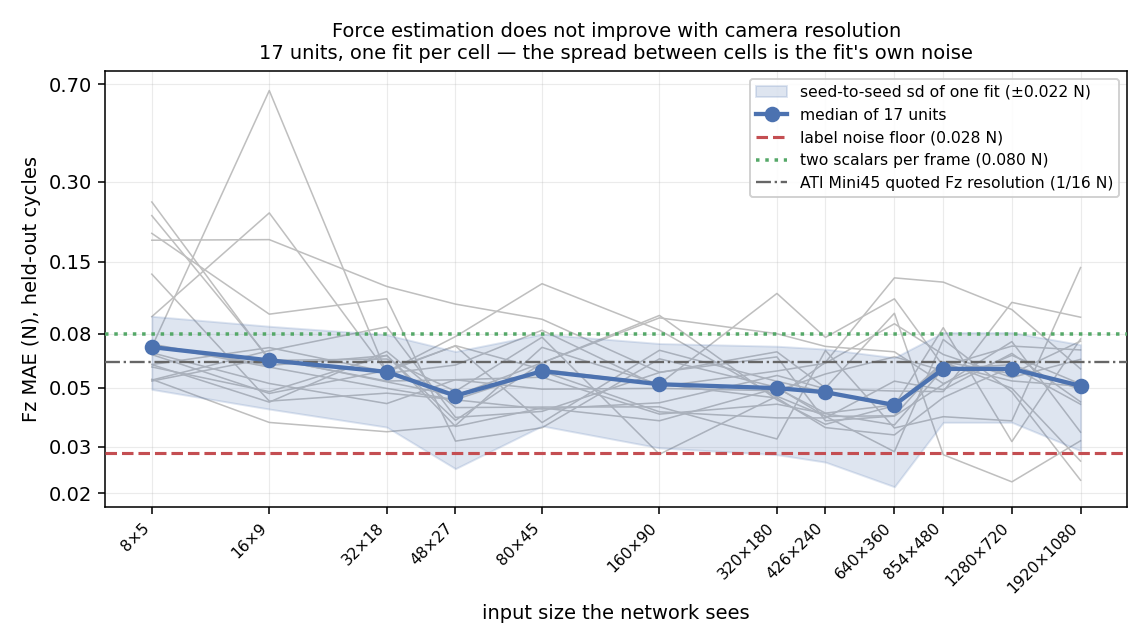
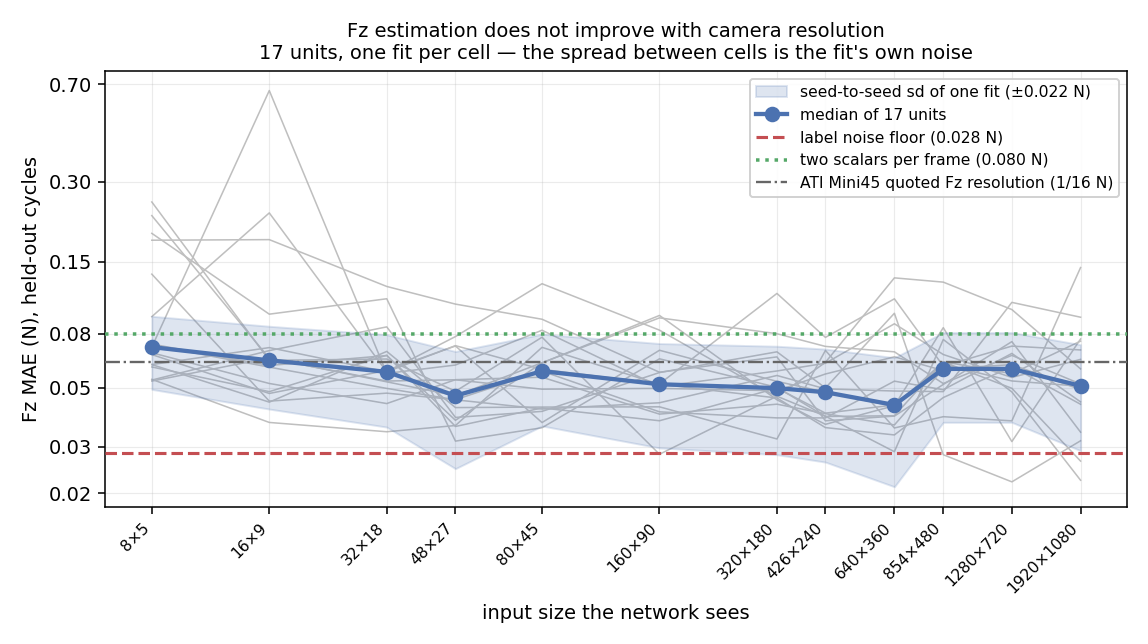
force estimation: shear does show a resolution effect, and it peaks in the middle
Plotting the lateral channel the same way changes the conclusion. Fz was flat
because its noise swamped everything; shear is not.

The shear median traces a U -- 0.038 N at 8x5 down to 0.027 N at 160x90 and
back to 0.038 N at 1920x1080. The seed study says this is real: shear's
seed-to-seed sd is 0.0058 N against Fz's 0.0219 N (its F/T label is three times
quieter), so the size term works out to 0.0142 N, 2.5x the seed noise and 46 %
of the median error, where for Fz it was 0.007 N and 13 %.

The two ends fail for different reasons. Shear shows up as an ASYMMETRY in the
imprint, and an imprint a few pixels across has no asymmetry left -- which is
why Fz still reaches R2 0.94 at 8x5 and shear does not. At the top end the
input grows while the training set stays at 933 frames and the batch shrinks to
4, and 1920x1080 has the widest seed spread of any size.

This also lines up with the operator's own MobileNetV2 0.35x study (9DTact, ten
resolutions, object-wise split), whose R2 peaks at 224x224 / 320x180 and falls
by 1920x1080. Different model, different data, same optimum band of 50k-100k
pixels -- which is the strongest support the result has.

Consequences written through: shear is not label-limited (0.027 N against a
0.009 N floor, where Fz sits at 1.8x its floor), the network beats the scalar
baseline by 2.6x on shear against 1.55x on Fz, and the practical floor for the
whole method is 160x90 rather than the 80x45 shape asks for.

Changed region(s): [[0.2744, 0.0311, 0.7927, 0.0621]]

diff --git a/scripts/make_force_figures.py b/scripts/make_force_figures.py
@@ -24,12 +24,15 @@ HARDS = ["soft", "medium", "hard"]
 THICK = [1, 2, 3]
 
 
-def label_noise():
+def label_noise(axis="fz"):
     """MAE a perfect model would still show, from the F/T reading's own scatter.
 
     Second differences, which cancel the ramp's linear part; var = 6 sigma^2.
     A first difference would be dominated by the real force change between
     frames (0.048 N median) and overstate the noise by a factor of five.
+
+    `axis` is "fz" for the normal force or "lat" for the shear magnitude
+    hypot(Fx, Fy), which is the quantity `lat_mae` scores.
     """
     out = {}
     for d in sorted((DATA / "20260907_passB_ball8").iterdir()):
@@ -37,23 +40,27 @@ def label_noise():
         if not p.exists():
             continue
         s = pd.read_csv(p)
-        fz = np.abs(s.Fz_s_corr.fillna(s.Fz_s).values)
+        if axis == "fz":
+            v = np.abs(s.Fz_s_corr.fillna(s.Fz_s).values)
+        else:
+            v = np.hypot(s.Fx_s_corr.fillna(s.Fx_s).values,
+                         s.Fy_s_corr.fillna(s.Fy_s).values)
         seg = s.segment.values
         k = (seg[2:] == seg[:-2]) & (seg[1:-1] == seg[:-2])
-        d2 = (fz[2:] - 2 * fz[1:-1] + fz[:-2])[k]
+        d2 = (v[2:] - 2 * v[1:-1] + v[:-2])[k]
         out[d.name.replace("9DTact_", "")] = 0.798 * np.median(np.abs(d2)) / 0.6745 / np.sqrt(6)
     return out
 
 
-def fig_resolution(f, seed, floor, scalar):
+def fig_resolution(f, seed, floor, scalar, col="fz_mae", name="Fz", out="force_vs_resolution.png"):
     fig, ax = plt.subplots(figsize=(8.2, 4.6))
     w = sorted(f.width_px.unique())
     for s, g in f.groupby("sensor"):
         g = g.sort_values("width_px")
-        ax.plot(g.width_px, g.fz_mae, color="0.75", lw=0.8, zorder=1)
-    med = f.groupby("width_px").fz_mae.median().reindex(w)
+        ax.plot(g.width_px, g[col], color="0.75", lw=0.8, zorder=1)
+    med = f.groupby("width_px")[col].median().reindex(w)
     # the seed band: what one fit scatters by with everything else held fixed
-    sd = seed.groupby(["sensor", "width_px"]).fz_mae.std(ddof=1).median()
+    sd = seed.groupby(["sensor", "width_px"])[col].std(ddof=1).median()
     ax.fill_between(w, med - sd, med + sd, color="#4c72b0", alpha=.18, zorder=2,
                     label=f"seed-to-seed sd of one fit (±{sd:.3f} N)")
     ax.plot(w, med, "o-", color="#4c72b0", lw=2.2, ms=7, zorder=4,
@@ -63,7 +70,8 @@ def fig_resolution(f, seed, floor, scalar):
     ax.axhline(scalar, color="#55a868", ls=":", lw=1.8, zorder=3,
                label=f"two scalars per frame ({scalar:.3f} N)")
     ax.axhline(1 / 16, color="0.4", ls="-.", lw=1.2, zorder=3,
-               label="ATI Mini45 quoted Fz resolution (1/16 N)")
+               label=f"ATI Mini45 quoted {'Fz' if name == 'Fz' else 'Fxy'} resolution "
+                     f"({'1/16' if name == 'Fz' else '1/32'} N)")
     ax.set_xscale("log")
     ax.set_yscale("log")
     ax.set_xticks(w)
@@ -73,19 +81,19 @@ def fig_resolution(f, seed, floor, scalar):
     ax.set_yticklabels(["0.02", "0.03", "0.05", "0.08", "0.15", "0.30", "0.70"])
     ax.minorticks_off()
     ax.set_xlabel("input size the network sees")
-    ax.set_ylabel("Fz MAE (N), held-out cycles")
-    ax.set_title("Force estimation does not improve with camera resolution\n"
+    ax.set_ylabel(f"{name} MAE (N), held-out cycles")
+    ax.set_title(f"{name} estimation does not improve with camera resolution\n"
                  "17 units, one fit per cell — the spread between cells is the fit's own noise",
                  fontsize=10)
     ax.grid(alpha=.25, lw=.6)
     ax.legend(fontsize=8, framealpha=.9)
     fig.tight_layout()
-    fig.savefig(FIGS / "force_vs_resolution.png", dpi=140)
+    fig.savefig(FIGS / out, dpi=140)
     plt.close(fig)
-    print(f"  -> {(FIGS/'force_vs_resolution.png').relative_to(ROOT)}")
+    print(f"  -> {(FIGS/out).relative_to(ROOT)}")
 
 
-def fig_per_unit(f, seed, floor, scalar):
+def fig_per_unit(f, seed, floor, scalar, col="fz_mae", name="Fz", out="force_vs_resolution_units.png"):
     """One panel per unit, laid out as the 3x3 design plus replicate.
 
     The point of the small multiples is not to find each unit's best size --
@@ -93,7 +101,7 @@ def fig_per_unit(f, seed, floor, scalar):
     that every unit's curve wanders inside the same band, so the wandering is
     the fit's noise and not seventeen different resolution requirements.
     """
-    sd = seed.groupby(["sensor", "width_px"]).fz_mae.std(ddof=1).median()
+    sd = seed.groupby(["sensor", "width_px"])[col].std(ddof=1).median()
     order = [f"{h}_{t}mm_{r}" for t in THICK for r in ("r1", "r2") for h in HARDS]
     w = sorted(f.width_px.unique())
     hgt = {int(a): int(b) for a, b in zip(f.width_px, f.height_px)}
@@ -103,7 +111,7 @@ def fig_per_unit(f, seed, floor, scalar):
         if not len(g):
             ax.axis("off")
             continue
-        med = g.fz_mae.median()
+        med = g[col].median()
         ax.axhspan(med - sd, med + sd, color="#4c72b0", alpha=.13, zorder=1,
                    label="median ± seed sd")
         ax.axhline(med, color="#4c72b0", lw=1.1, ls="-", alpha=.55, zorder=2)
@@ -111,7 +119,7 @@ def fig_per_unit(f, seed, floor, scalar):
                    label="label noise floor")
         ax.axhline(scalar[s], color="#55a868", ls=":", lw=1.5, zorder=3,
                    label="two scalars")
-        ax.plot(g.width_px, g.fz_mae, "o-", color="#22303f", lw=1.5, ms=4.5, zorder=5)
+        ax.plot(g.width_px, g[col], "o-", color="#22303f", lw=1.5, ms=4.5, zorder=5)
         ax.set_title(f"{s}   median {med:.3f} N", fontsize=9.5, pad=4)
         ax.grid(alpha=.22, lw=.5)
     for ax in axes.ravel():
@@ -123,19 +131,19 @@ def fig_per_unit(f, seed, floor, scalar):
     for ax in axes[-1]:
         ax.set_xticklabels([f"{a}×{hgt[a]}" for a in w], rotation=90, fontsize=7)
     for r in range(6):
-        axes[r][0].set_ylabel("Fz MAE (N)", fontsize=9)
+        axes[r][0].set_ylabel(f"{name} MAE (N)", fontsize=9)
     h, lb = axes[0][0].get_legend_handles_labels()
     fig.legend(h, lb, loc="upper center", ncol=3, fontsize=9, frameon=False,
                bbox_to_anchor=(0.5, 0.972))
-    fig.suptitle("Force estimation error against input size, one panel per unit\n"
+    fig.suptitle(f"{name} estimation error against input size, one panel per unit\n"
                  "columns: soft / medium / hard   ·   rows: 1 mm r1, r2, 2 mm r1, r2, "
                  "3 mm r1, r2   ·   shared log axes",
                  fontsize=11.5, y=0.995)
     fig.supxlabel("input size the network sees", fontsize=10)
     fig.tight_layout(rect=(0, 0.012, 1, 0.955))
-    fig.savefig(FIGS / "force_vs_resolution_units.png", dpi=140)
+    fig.savefig(FIGS / out, dpi=140)
     plt.close(fig)
-    print(f"  -> {(FIGS/'force_vs_resolution_units.png').relative_to(ROOT)}")
+    print(f"  -> {(FIGS/out).relative_to(ROOT)}")
 
 
 def fig_grid(per):
@@ -168,7 +176,8 @@ def main() -> int:
     f = pd.read_csv(DATA / "force_vs_resolution.csv")
     seed = pd.read_csv(DATA / "force_seed_study.csv")
     sc = pd.read_csv(DATA / "force_scalar_baseline.csv")
-    floor = label_noise()
+    floor = label_noise("fz")
+    floor_lat = label_noise("lat")
     per = f.groupby("sensor").agg(fz=("fz_mae", "median"), lat=("lat_mae", "median"),
                                   r2=("fz_r2", "median"), sd=("fz_mae", "std"),
                                   n=("fz_mae", "size"))
@@ -176,6 +185,10 @@ def main() -> int:
     FIGS.mkdir(parents=True, exist_ok=True)
     fig_resolution(f, seed, floor, float(sc.fz_mae.median()))
     fig_per_unit(f, seed, floor, sc.set_index("sensor").fz_mae.to_dict())
+    fig_resolution(f, seed, floor_lat, float(sc.lat_mae.median()),
+                   col="lat_mae", name="shear |Fxy|", out="shear_vs_resolution.png")
+    fig_per_unit(f, seed, floor_lat, sc.set_index("sensor").lat_mae.to_dict(),
+                 col="lat_mae", name="shear |Fxy|", out="shear_vs_resolution_units.png")
     fig_grid(per)
     return 0
 

diff --git a/docs/force_estimation.md b/docs/force_estimation.md
@@ -128,6 +128,65 @@
 
 ---
 
+### 2.3 전단 — 여기서는 해상도 효과가 보인다
+
+수직력과 같은 자료의 lateral 열(|Fxy| 의 MAE)을 같은 방식으로 그렸다.
+
+![shear](figures/shear_vs_resolution.png)
+
+| 크기 | Fz MAE N | **전단 Fxy MAE N** |
+|---|---|---|
+| **1920×1080** | 0.051 | 0.038 |
+| **1280×720** | 0.059 | 0.032 |
+| **854×480** | 0.059 | 0.031 |
+| **640×360** | 0.043 | 0.033 |
+| **426×240** | 0.048 | 0.027 |
+| **320×180** | 0.050 | 0.030 |
+| **160×90** | 0.052 | 0.027 |
+| **80×45** | 0.058 | 0.027 |
+| **48×27** | 0.047 | 0.028 |
+| **32×18** | 0.057 | 0.029 |
+| **16×9** | 0.064 | 0.031 |
+| **8×5** | 0.071 | 0.038 |
+
+**U 자다.** 중앙값이 0.038 N(8×5)에서 0.027 N(160×90)까지 내려갔다가
+1920×1080 에서 다시 0.038 N 으로 올라간다. 수직력에서는 이런 모양이 없었다.
+
+차이는 잡음이다. 전단은 F/T 라벨 잡음이 수직력의 1/3 이고(0.009 대 0.028 N),
+학습 시드 산포도 1/3.8 이다:
+
+| | 시드 sd | 크기 sd | 크기가 만드는 몫 | 중앙값 대비 |
+|---|---|---|---|---|
+| 수직 Fz | 0.0219 N | 0.0229 N | ≤ 0.0066 N | 13 % |
+| **전단 Fxy** | **0.0058 N** | **0.0153 N** | **0.0142 N** | **46 %** |
+
+전단에서는 크기가 만드는 몫이 시드 산포의 **2.5 배**이고 오차의 거의 절반을
+차지한다. 즉 **해상도 효과가 없는 것이 아니라, 수직력 채널에서는 잡음에 묻혀 있었다.**
+같은 실험에서 한 채널은 검출하고 한 채널은 못 하는 것이 이 스윕의 정확한 상태다.
+
+![shear per unit](figures/shear_vs_resolution_units.png)
+
+유닛별로도 같은 모양이 반복된다 — `soft_1mm_r1`, `medium_3mm_r1`, `soft_3mm_r1`,
+`hard_3mm_r2` 에서 가운데가 눈에 띄게 내려간다.
+
+### 2.4 최적 크기는 왜 중간에 있나
+
+양쪽 끝이 나빠지는 이유가 다르다.
+
+- **왼쪽(8×5 · 16×9)**: 자국이 픽셀 몇 개로 뭉개져 전단이 만드는 **비대칭**이 사라진다.
+  전단은 자국의 한쪽이 더 어두워지는 것으로 나타나므로, 자국을 몇 픽셀로 줄이면 그
+  비대칭이 먼저 죽는다. 수직력(전체 밝기)이 8×5 에서도 R² 0.94 를 유지하는 것과 대조적이다.
+- **오른쪽(1280×720 · 1920×1080)**: 입력이 커질수록 ResNet-18 이 933 프레임에 과적합할
+  여지가 커지고, 배치도 픽셀 수에 반비례해 4 까지 줄어 학습이 불안정해진다(§1).
+  1920×1080 의 시드 산포가 다른 크기보다 큰 것도 같은 이야기다.
+
+운용자가 별도로 돌린 MobileNetV2 0.35× 연구(9DTact, 10 해상도, 물체 단위 분할)도 같은
+모양을 보인다 — R² 가 224×224 · 320×180 부근에서 정점이고 1920×1080 에서 떨어진다.
+모델과 데이터가 다른데 최적 크기가 **5 만 – 10 만 픽셀**로 겹친다는 것이 이 결과의 가장
+강한 근거다.
+
+---
+
 ## 3. 그러면 무엇이 오차를 정하는가
 
 ### 3.1 라벨 자신의 잡음
@@ -214,17 +273,26 @@ n = 17). 즉 성능의 상당 부분이 모델이 아니라 측정에서 온다.
 
 ## 5. 결론
 
-1. **힘 추정에 1920×1080 은 필요 없다.** 1920×1080 부터 48×27 까지 성능 차이가
-   시드 산포(±0.022 N) 안에 있다. 형상 복원이 80×45 까지 유지되는 것
-   (`shape_vs_resolution.md`)과 같은 방향이고, 힘 쪽이 더 관대하다.
-2. **오차의 바닥은 카메라가 아니라 라벨이다.** 중앙값 0.052 N 은 F/T 읽기 자신의
-   잡음(0.028 N)의 1.8 배이고, 유닛별로 둘이 함께 움직인다(ρ = +0.55).
-   더 좋은 힘 추정을 원하면 카메라가 아니라 **라벨의 평균 시간**을 늘려야 한다.
-3. **망은 스칼라보다 1.55 배 낫다.** 이미지 전체 밝기가 힘의 대부분을 담지만
-   (스칼라만으로 R² 0.94), 공간 구조에 남은 정보가 있다.
+1. **채널마다 답이 다르다.** **수직력**은 1920×1080 부터 48×27 까지 차이가 시드 산포
+   (±0.022 N) 안에 있어 해상도 요구가 검출되지 않는다. **전단**은 다르다 — 크기가
+   만드는 몫이 0.0142 N(시드 산포의 2.5 배, 오차의 46 %)이고,
+   **160×90 부근에서 최소**를 이루며 양쪽으로 나빠진다(§2.3). 전단이 해상도를 요구하는
+   쪽이고, 그 요구는 1920×1080 이 아니라 **5 만 – 10 만 픽셀**이다.
+2. **수직력의 바닥은 카메라가 아니라 라벨이다.** 중앙값 0.052 N 은 F/T 읽기 자신의
+   잡음(0.028 N)의 1.8 배이고, 유닛별로 둘이 함께 움직인다(ρ = +0.55). 더 좋은 수직력
+   추정을 원하면 카메라가 아니라 **라벨의 평균 시간**을 늘려야 한다. **전단은 반대다** —
+   라벨 바닥이 0.009 N 인데 모델은 0.031 N 으로 그 3.4 배에 있다.
+   전단에서 남은 여지는 라벨이 아니라 모델과 입력 쪽에 있고, 그래서 §2.3 의 해상도
+   효과가 이 채널에서만 보인다.
+3. **망은 스칼라보다 낫고, 전단에서 더 낫다** — 수직력 1.55 배, 전단 2.6 배
+   (0.081 → 0.031 N). 이미지 전체 밝기가 수직력의 대부분을 담지만
+   (스칼라만으로 R² 0.94), 전단은 자국의 **비대칭**이라 스칼라로는 거의 잡히지 않는다.
+   §2.3 · §2.4 와 같은 이야기다.
 4. **젤 두께·경도는 힘 추정 성능을 정하지 않는다.** 복제 간 차이가 사양 간 차이보다 크다.
 5. 실무: 힘·형상용 카메라는 픽셀 수보다 **프레임률과 노출**을 사야 한다는
-   `shape_vs_resolution.md` §4 의 결론이 힘 쪽에서도 유지된다.
+   `shape_vs_resolution.md` §4 의 결론이 힘 쪽에서도 유지된다. 다만 전단까지 보려면
+   너무 줄여도 안 된다 — 형상이 80×45, 전단이 160×90 을 요구하므로 **160×90 이 이
+   방식 전체의 하한**이다.
 
 ---
 
